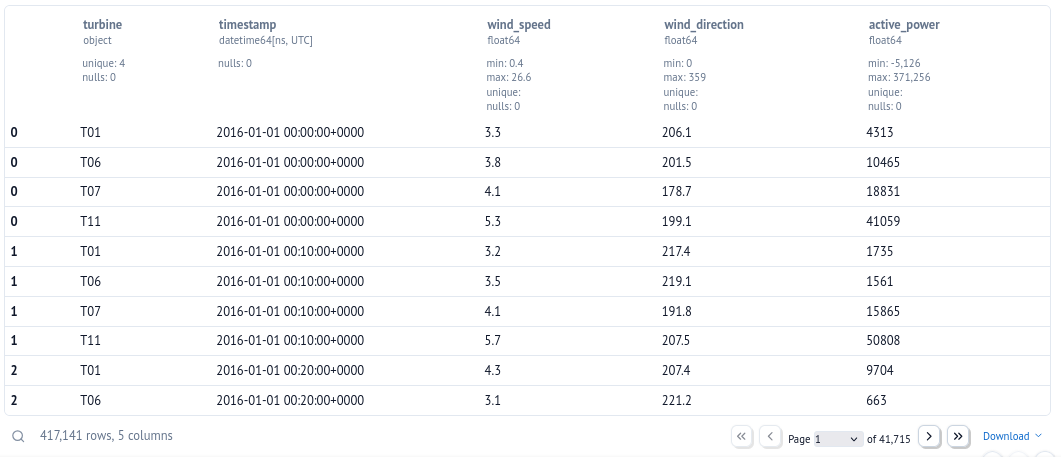
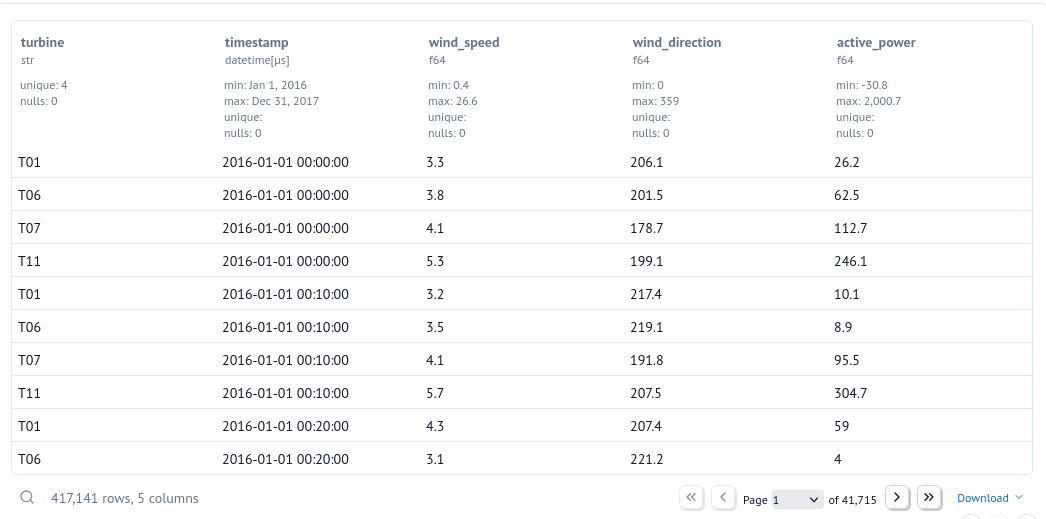
- fixes:  - the column to use for power  - e82 insead of e33

diff --git a/main.py b/main.py
@@ -77,9 +77,9 @@ def _(mo):
         - scada_T11_2016.csv
         - scada_T11_2017.csv
 
-        Each file contains 1 year of data from an Enercon E33 wind turbine.
+        Each file contains 1 year of data from an Enercon E82 wind turbine.
 
-        The extracted data should include only turbine ID, timestamp, average wind speed, absolute average wind direction, and total active power for the 2 years and 4 turbines.
+        The extracted data should include only turbine ID, timestamp, average wind speed, absolute average wind direction, and average produced power for the 2 years and 4 turbines.
 
         Output exemple:
         """
